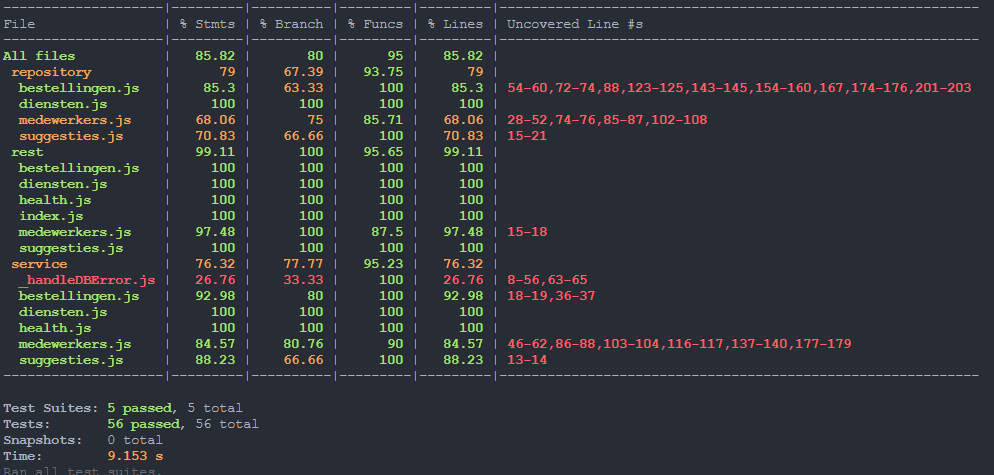
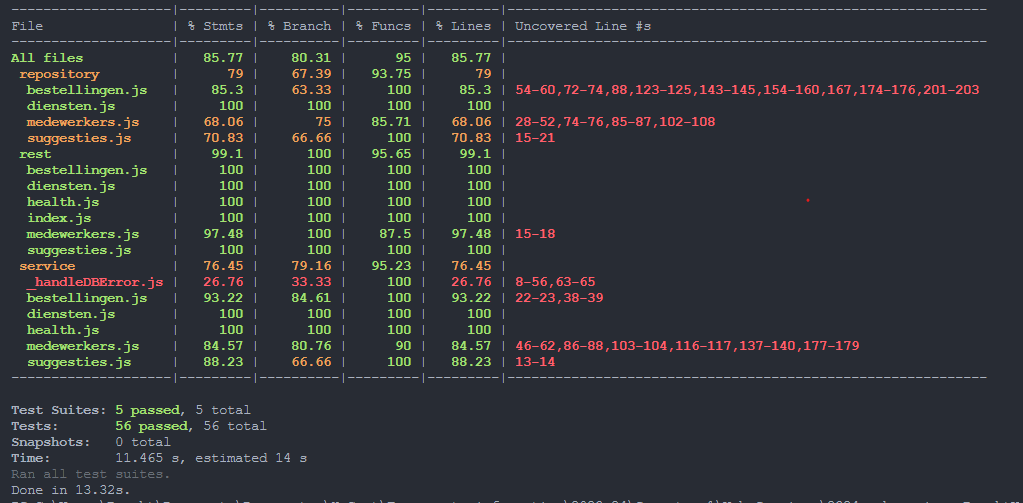
dossier + rest laag aanpassing

Changed region(s): [[0.0, 0.0, 0.998, 1.0]]

diff --git a/src/service/bestellingen.js b/src/service/bestellingen.js
@@ -1,11 +1,15 @@
 const bestellingenRepository = require("../repository/bestellingen");
-
+const Role = require("../core/rollen");
 
 const handleDBError = require("./_handleDBError");
 
-//medewerkersId optioneel, indien niet meegegeven worden alle bestellingen opgehaald
-const getAll = async (medewerkerId) => {
-  return await bestellingenRepository.findAll(medewerkerId);
+//ADMIN mag alles zien, USER mag enkel eigen bestellingen zien
+const getAll = async (medewerkerId, rollen) => {
+  if (rollen && rollen.includes(Role.ADMIN)) {
+    return await bestellingenRepository.findAll();
+  } else {
+    return await bestellingenRepository.findAll(medewerkerId);
+  }
 };
 
 const getByBestellingsnr = async (bestellingsnr) => {
@@ -20,9 +24,7 @@ const getByBestellingsnr = async (bestellingsnr) => {
 };
 const deleteByBestellingsnr = async (bestellingsnr) => {
   try {
-    await bestellingenRepository.deleteByBestellingsnr(
-      bestellingsnr
-    );
+    await bestellingenRepository.deleteByBestellingsnr(bestellingsnr);
   } catch (error) {
     throw handleDBError(error);
   }
@@ -36,7 +38,7 @@ const create = async (bestelling) => {
     throw handleDBError(error);
   }
 };
-//medewerkersId optioneel, indien niet meegegeven worden de leverdata van alle bestellingen opgehaald
+
 const getLeverdata = async (medewerkerId) => {
   const bestellingen = await getAll(medewerkerId);
   const leverdata = bestellingen.items.reduce((acc, bestelling) => {

diff --git a/src/rest/bestellingen.js b/src/rest/bestellingen.js
@@ -6,14 +6,9 @@ const validate = require("../core/validation");
 const { requireAuthentication } = require("../core/auth");
 const Role = require("../core/rollen");
 
-//ADMIN mag alles zien, USER mag enkel eigen bestellingen zien
 const getAllBestellingen = async (ctx) => {
   const { medewerkerId, rollen } = ctx.state.session;
-  if (rollen.includes(Role.ADMIN)) {
-    ctx.body = await bestellingService.getAll();
-  } else {
-    ctx.body = await bestellingService.getAll(medewerkerId);
-  }
+  ctx.body = await bestellingService.getAll(medewerkerId, rollen);
 };
 getAllBestellingen.validationScheme = null;
 

diff --git a/src/rest/diensten.js b/src/rest/diensten.js
@@ -2,7 +2,6 @@ const Router = require("@koa/router");
 
 const dienstenService = require("../service/diensten");
 const validate = require("../core/validation");
-const { requireAuthentication } = require("../core/auth");
 
 const getAllDiensten = async (ctx) => {
   ctx.body = await dienstenService.getAll();

diff --git a/dossier.md b/dossier.md
@@ -77,13 +77,13 @@ Page not found
 
 ### Bestelling
 
-- Een gebruiker moet al zijn bestellingen kunnen bekijken:  
+- Een gebruiker moet al zijn bestellingen kunnen bekijken, admin alle bestellingen:  
   `GET /api/bestellingen` 
 
 - Een gebruiker moet zijn bestelling in detail kunnen bekijken:  
   `GET /api/bestellingen/:bestellingsnr` 
 
-- Alle leverdata van alle bestellingen moeten opgevraagd kunnen worden zodat een nieuwe maaltijd niet op eenzelfde leverdatum geplaatst wordt:  
+- Alle leverdata van alle eigen bestellingen moeten opgevraagd kunnen worden zodat een nieuwe maaltijd niet op eenzelfde leverdatum geplaatst kan worden:  
 `GET /api/bestellingen/leverdata`
 
 - Een gebruiker moet een winkelmandje kunnen bevestigen, bestelling dus plaatsen:  
@@ -95,8 +95,7 @@ Page not found
 
 ### SuggestieVanDeMaand
 - De suggesties moeten opgevraagd kunnen worden:  
-`GET /api/suggesties` 
-
+`GET /api/suggesties`   
 
 - De omschrijving van een bepaalde (vegetarische) suggestie van bepaalde maand kan worden opgevraagd (wordt niet gebruikt in de front-end app):  
 `GET /api/suggesties?maand=${maand}&vegie={vegie}`
@@ -197,8 +196,8 @@ Page not found
 
   - [x] meerdere routes met invoervalidatie
   - [x] degelijke foutboodschappen
-  - [ ] volgt de conventies van een RESTful API
-  - [ ] bevat geen domeinlogica
+  - [x] volgt de conventies van een RESTful API
+  - [x] bevat geen domeinlogica
   - [x] geen API calls voor entiteiten die geen zin hebben zonder hun ouder (bvb tussentabellen)
   - [x] degelijke authorisatie/authenticatie op alle routes
         <br />
@@ -220,7 +219,7 @@ Gelijkaardige structuur als de voorbeeldapplicatie. In de src map bevindt zich b
 
 ### Web Services
 
-Gelijkaardige structuur als de voorbeeldapplicatie, voor ORM prisma een apparte map voorzien.
+Gelijkaardige structuur als de voorbeeldapplicatie, voor ORM prisma een aparte map voorzien.
 ## Extra technologie
 
 ### Front-end Web Development
@@ -311,9 +310,10 @@ warme maaltijd correct toegevoegd aan winkelmandje, daarna verwijderen
 ### Front-end Web Development
 
 - Als je uitlogt en terug inlogt als een andere gebruiker kan je op /bestellingen nog kort de bestellingen zien van de eerste ingelogde gebruiker. 
-- Annuleer knoppen op /profiel werken niet steeds direct.
+- Annuleer buttons op /profiel werken niet steeds direct.
+- Datepickers doen soms raar, gaan heel ver in de toekomst jaar > 2100.
 
 ### Web Services
 
-> Zijn er gekende bugs?
+
 
